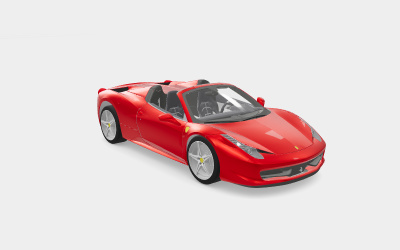
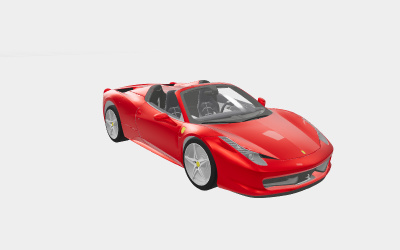
Examples: Improved webgl_,materials_car.

Changed region(s): [[0.24, 0.308, 0.84, 0.812], [0.66, 0.504, 0.72, 0.56]]

diff --git a/examples/webgl_materials_car.html b/examples/webgl_materials_car.html
@@ -70,8 +70,8 @@
 
 				//
 
-				camera = new THREE.PerspectiveCamera( 30, window.innerWidth / window.innerHeight, 0.1, 100 );
-				camera.position.set( 5, 2.5, - 6 );
+				camera = new THREE.PerspectiveCamera( 40, window.innerWidth / window.innerHeight, 0.1, 100 );
+				camera.position.set( 3.5, 2, - 4.5 );
 
 				controls = new OrbitControls( camera, container );
 				controls.target.set( 0, 0.5, 0 );
